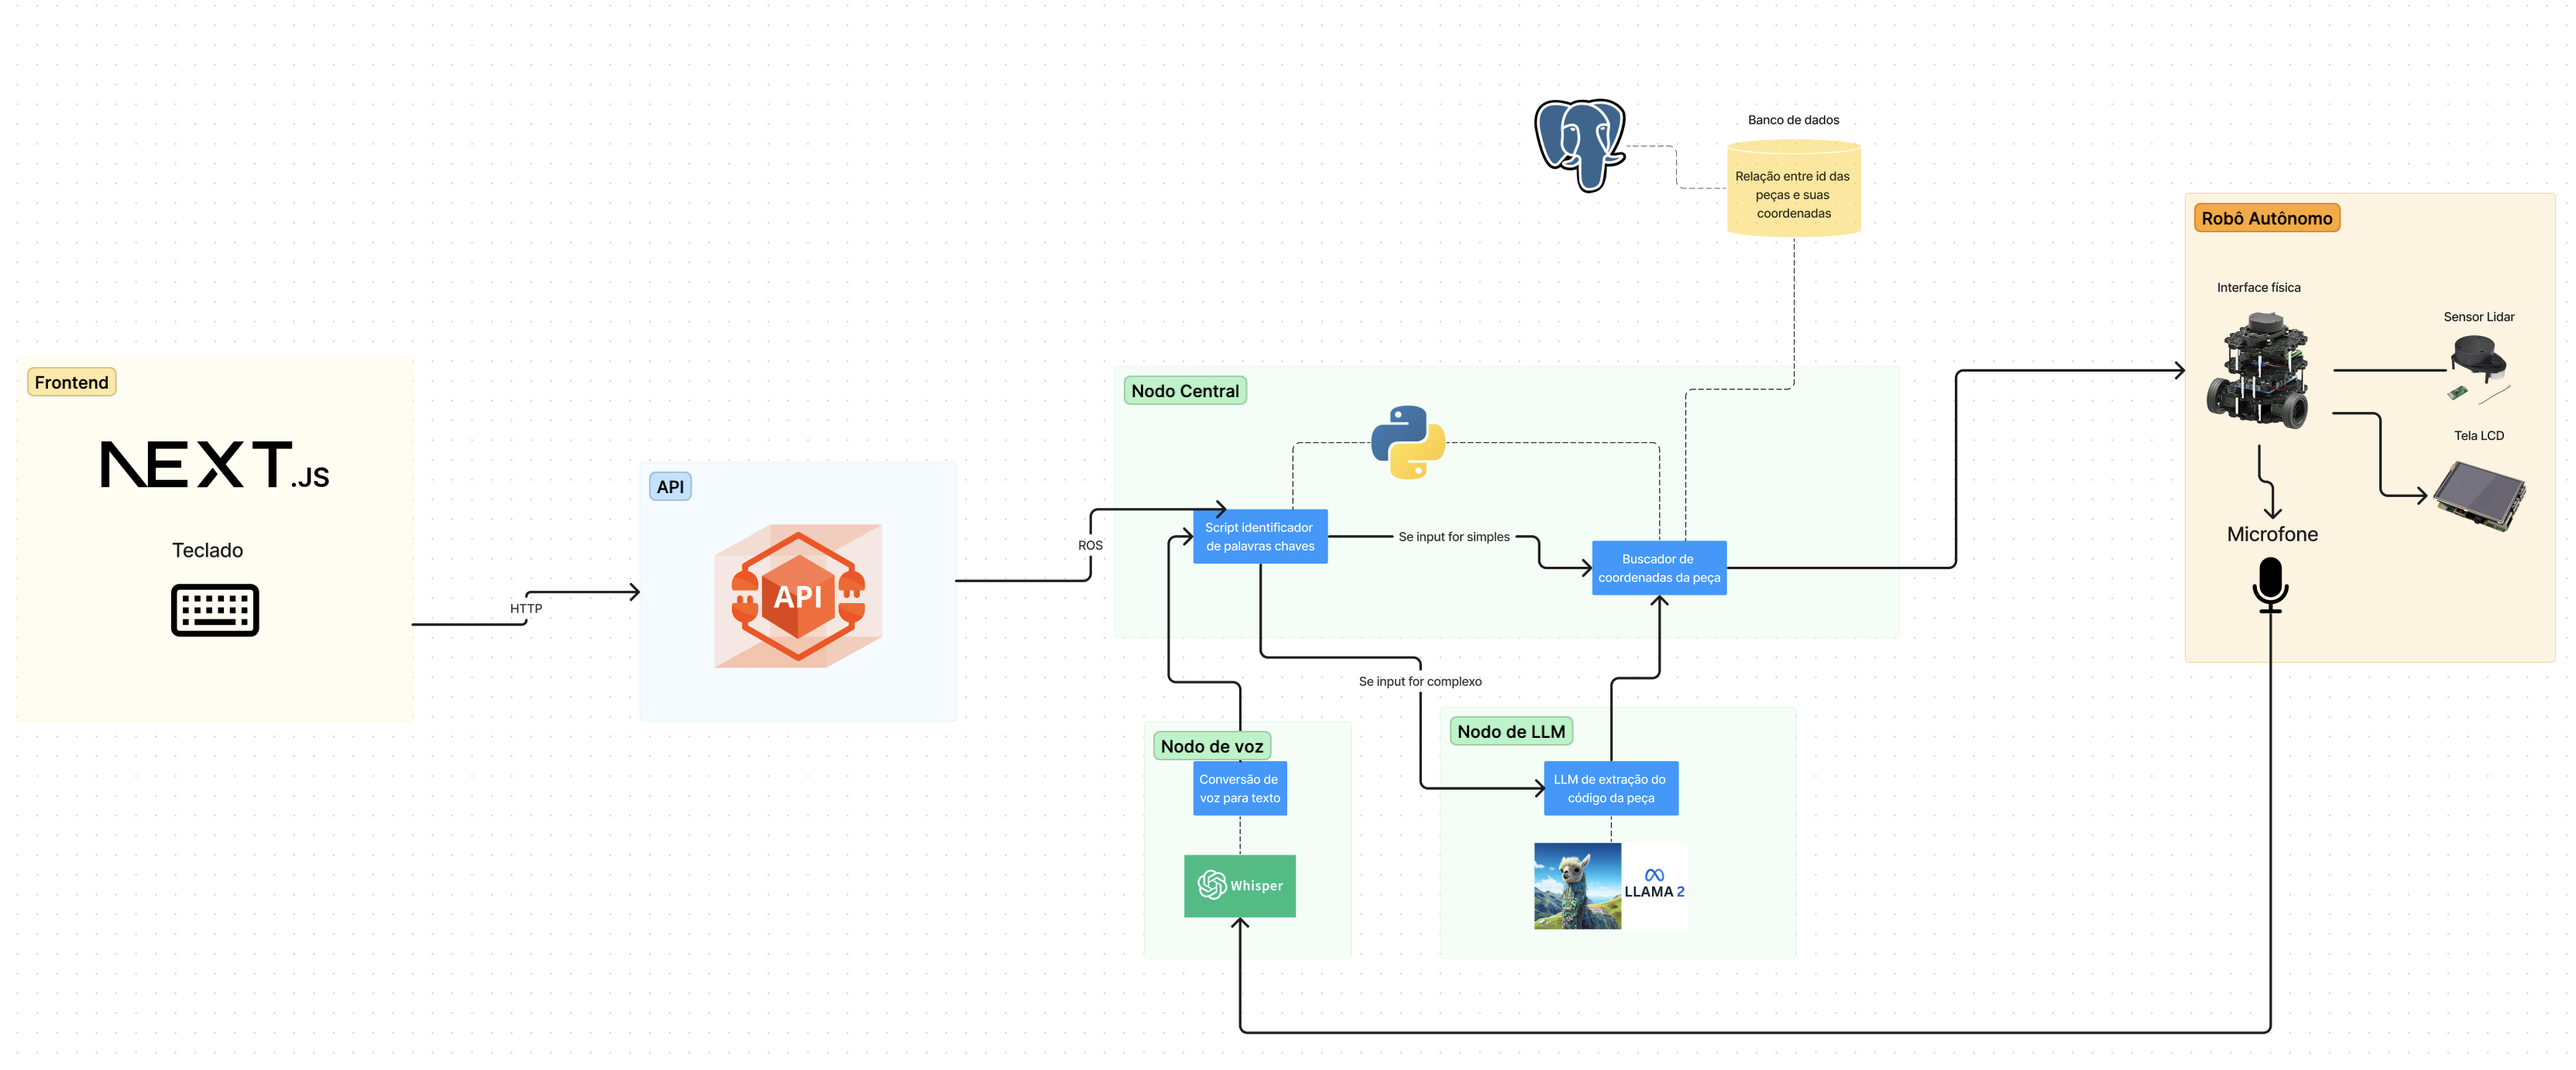
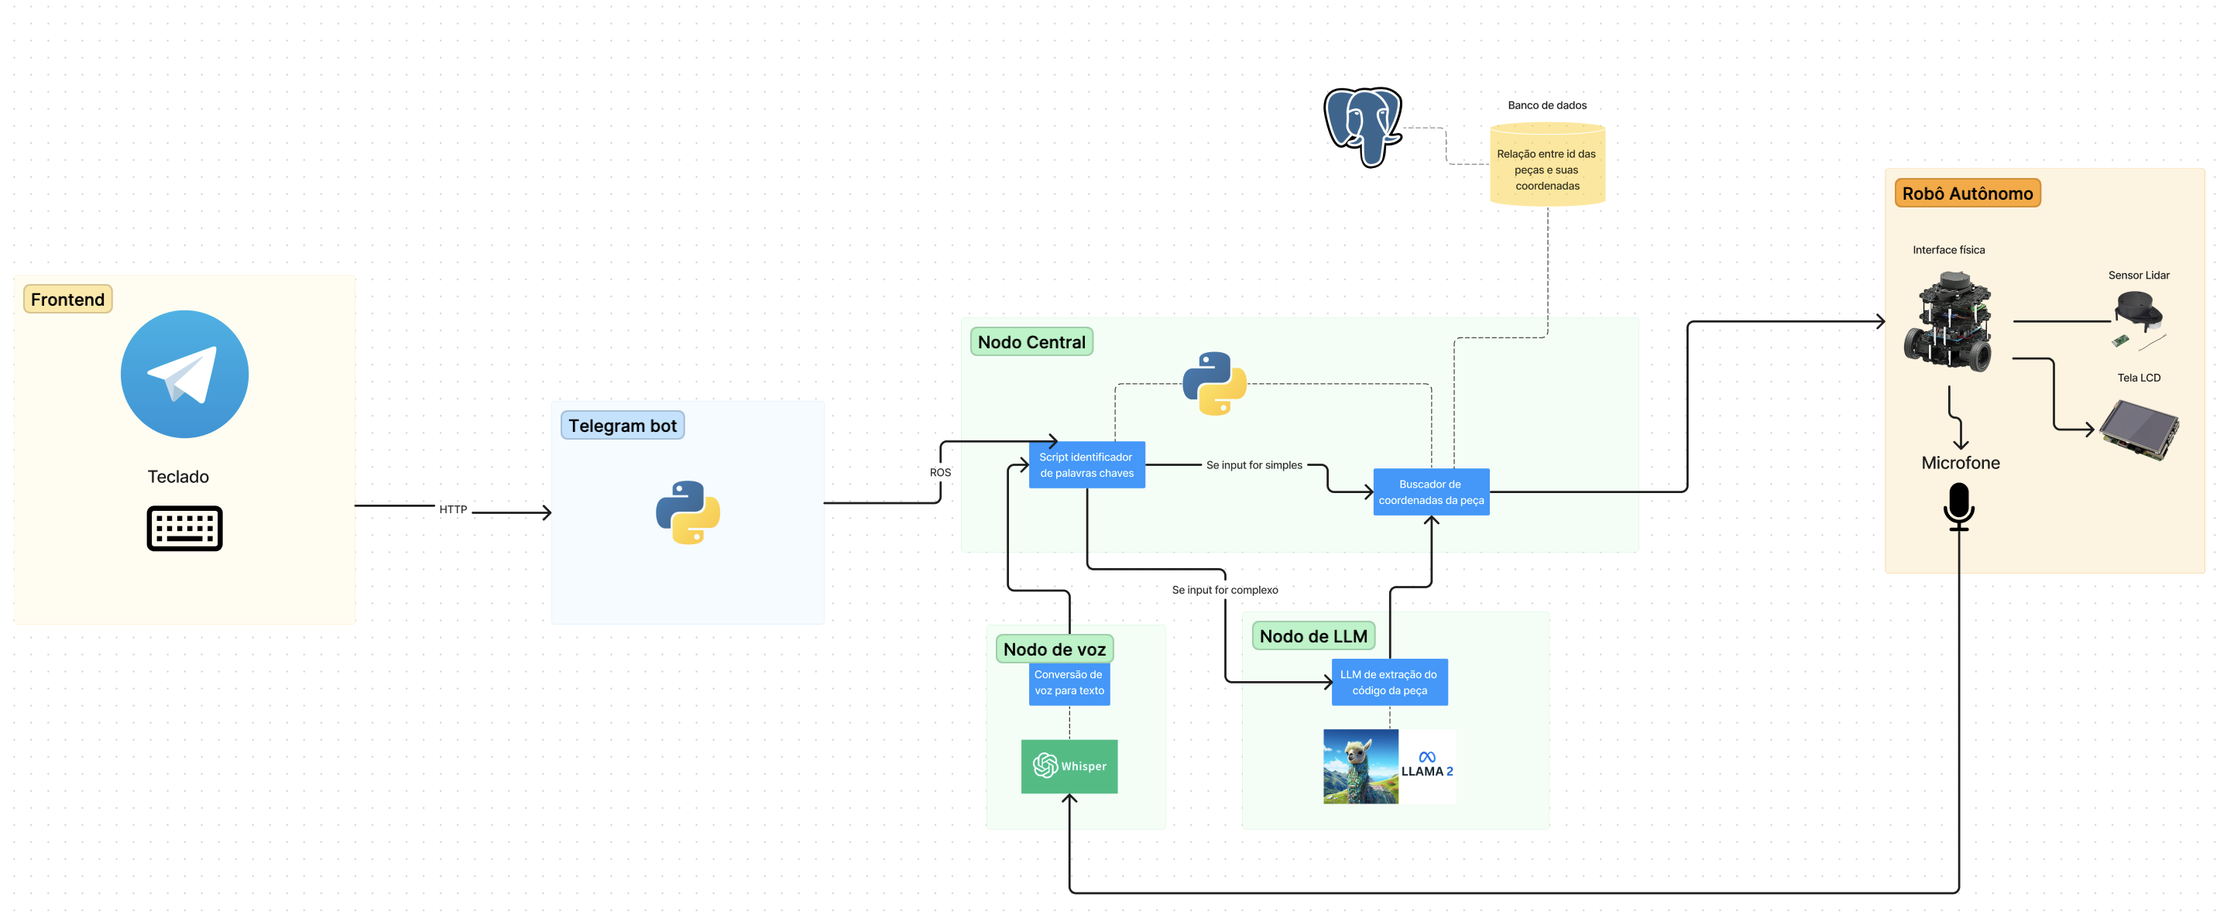
Atualização da documentação de arquitetura e chatbot

diff --git a/docs/docs/sprint2/Chatbot/index.md b/docs/docs/sprint2/Chatbot/index.md
@@ -1,0 +1,60 @@
+# Chatbot do Telegram
+
+## **Descrição Geral:**
+O script `telegram_api.py` localizado em `/src/scripts/chatbot/telegram_api.py` foi projetado para ser a interface de comunicação entre o usuário e o sistema de autoatendimento do almoxarifado. Ele emprega um chatbot do Telegram para receber comandos de texto e para fornecer respostas automáticas que facilitam a solicitação e gerenciamento de pedidos de itens do almoxarifado.
+
+## **Integração com o Sistema de Autoatendimento:**
+- O chatbot serve como um ponto de entrada para solicitações de itens, que são posteriormente processadas pelo sistema de autoatendimento e executadas pelo robô autônomo.
+- As mensagens de comando são mapeadas para ações correspondentes no sistema que guiam o robô no almoxarifado.
+
+## **Uso e Comandos:**
+- O usuário inicia uma conversa com o bot, que responde com uma mensagem de boas-vindas e apresenta opções de comandos.
+- Os comandos incluem opções para fazer pedidos, verificar estoque, verificar o status de um pedido e visualizar itens disponíveis.
+- A resposta para cada comando é definida dentro de funções específicas no script.
+
+## **Razões para a Utilização do Chatbot do Telegram**
+
+### **Acessibilidade e Conveniência:**
+A escolha do chatbot do Telegram como interface de usuário foi impulsionada pela sua facilidade de acesso e uso generalizado. O Telegram é uma plataforma amplamente adotada com uma base de usuários ativa, que permite aos usuários interagir com o sistema de autoatendimento de uma maneira conveniente e familiar. A acessibilidade móvel do Telegram significa que os usuários podem fazer pedidos e consultar informações de qualquer lugar, a qualquer hora, diretamente de seus smartphones.
+
+### **Interação Intuitiva e Experiência do Usuário:**
+Os chatbots fornecem uma experiência de usuário interativa e guiada que pode simular uma conversa natural. Isso minimiza a curva de aprendizado para os usuários novos e melhora a eficiência para os usuários recorrentes. O uso de comandos e prompts claros ajuda a evitar erros de comunicação e acelera o processo de pedido.
+
+### **Redução de Erros e Melhoria de Eficiência:**
+Ao automatizar a recepção de pedidos e as respostas às consultas, o chatbot reduz a possibilidade de erros humanos. A precisão e a consistência das respostas do bot contribuem para uma melhor gestão do inventário e uma maior eficiência operacional. Isso é crucial em um ambiente onde a rapidez e a precisão são fundamentais, como no almoxarifado da AMBEV.
+
+### **Escalabilidade e Manutenção:**
+O chatbot é facilmente escalável, permitindo que mais usuários façam pedidos simultaneamente sem a necessidade de recursos adicionais de atendimento ao cliente. Manter o bot é menos oneroso em comparação com o treinamento e gerenciamento de uma equipe de atendimento ao cliente, resultando em economia de custos e em um sistema mais sustentável a longo prazo.
+
+### **Integração e Personalização:**
+A plataforma do Telegram permite uma integração fácil com sistemas existentes através de APIs e Webhooks. Isso permite uma personalização profunda do chatbot para atender às necessidades específicas do projeto. O chatbot pode ser ajustado para refletir o vocabulário e os processos do almoxarifado, criando uma experiência de usuário altamente adaptada e eficiente.
+
+### **Dados e Análise:**
+O uso do chatbot fornece a oportunidade de coletar dados sobre as interações dos usuários, que podem ser analisados para melhorar continuamente o processo de atendimento e entender melhor as necessidades dos usuários. Essa análise de dados pode levar a insights que ajudam a otimizar as operações do almoxarifado.
+
+### **Segurança e Conformidade:**
+A implementação do chatbot no Telegram também permite o controle sobre a segurança e a privacidade das comunicações. A chave da API e os dados sensíveis podem ser protegidos usando práticas recomendadas de segurança de TI. Além disso, o Telegram oferece criptografia de ponta a ponta, garantindo que a comunicação entre o usuário e o sistema seja segura e em conformidade com as políticas de privacidade da empresa.
+
+### **Resiliência e Confiabilidade:**
+O chatbot no Telegram é apoiado pela infraestrutura robusta e confiável do Telegram, que garante alta disponibilidade e desempenho consistente. Isso é essencial para garantir que o sistema de autoatendimento esteja sempre disponível para os usuários quando necessário, sem interrupções.
+
+## **Funcionalidades do Chatbot:**
+1. **Recepção de Pedidos:** Através de comandos específicos, como `/Parafuso`, o usuário pode realizar pedidos diretamente pelo chat.
+2. **Fluxo de Diálogo:** O bot guia o usuário por meio de uma série de opções e comandos para facilitar o processo de pedido, verificação de estoque e acompanhamento do status de pedidos.
+3. **Listagem de Itens:** O chatbot fornece uma lista de itens que podem ser solicitados e informações sobre como fazer esses pedidos.
+
+## **Detalhes Técnicos:**
+- O bot é construído usando a biblioteca `telebot`, que permite a criação de comandos e o manejo de mensagens.
+- Há uma função de verificação (`verify`) que valida todas as mensagens recebidas, direcionando-as para o manipulador de mensagens adequado.
+- A função `answer` é responsável por responder a todas as mensagens que não são comandos específicos, apresentando ao usuário as opções iniciais.
+
+## **Segurança:**
+- A chave da API é utilizada para autenticar o bot no serviço do Telegram. Em ambientes de produção, é recomendável que esta chave seja armazenada de forma segura e não diretamente no código.
+
+## **Testes e Validação:**
+- Testes devem ser realizados para assegurar que o bot responde corretamente aos comandos e gerencia eficientemente as interações dos usuários.
+- A validação deve incluir a verificação de que o bot direciona os pedidos corretamente para o sistema de autoatendimento.
+
+**Manutenção e Atualizações:**
+- A documentação do script deve ser revisada e atualizada regularmente para refletir quaisquer alterações no funcionamento do bot.
+- O monitoramento contínuo do bot é essencial para garantir a eficácia e a precisão das respostas e ações.

diff --git a/docs/docs/sprint1/Arquitetura do sistema/index.md b/docs/docs/sprint1/Arquitetura do sistema/index.md
@@ -13,11 +13,11 @@ O sistema é composto por uma estrutura frontend-backend, integrada a um sistema
 
 ### Componentes do Sistema
 
-1. **Frontend: NEXT.js**
+1. **Frontend: Telegram**
    - Input: Teclado
-   - Comunicação: HTTP para API
+   - Comunicação: HTTP para Bot do Telegram
 
-2. **API**
+2. **Bot do Telegram**
    - Serve como ponte entre o frontend e o Nodo Central.
 
 3. **Nodo Central**
